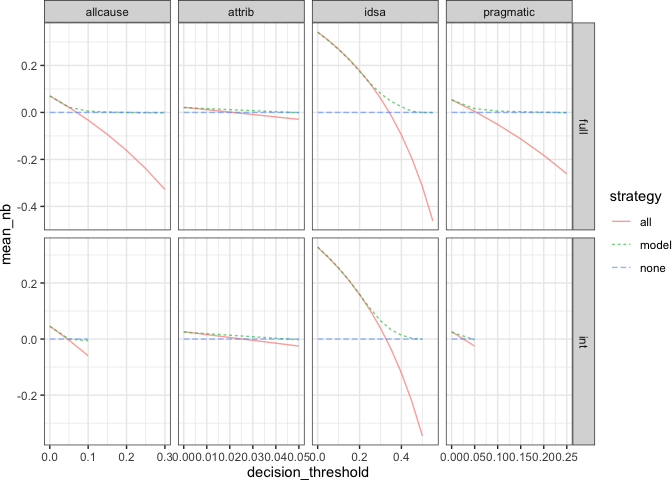
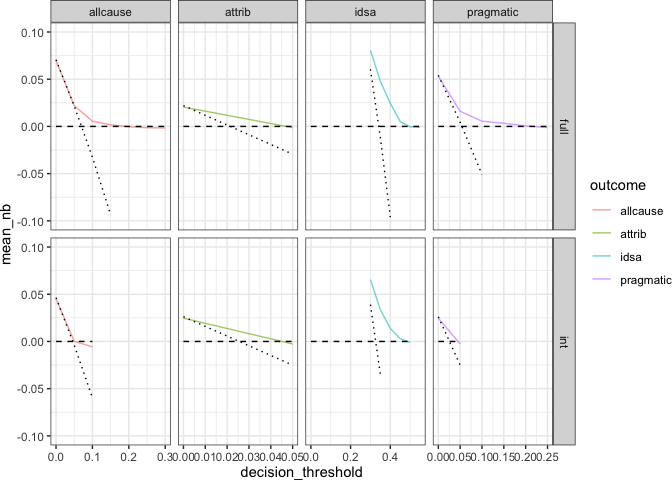
Report table of decision thresholds

diff --git a/workflow/notebooks/cost-benefit-analysis.md b/workflow/notebooks/cost-benefit-analysis.md
@@ -2,15 +2,32 @@ Cost-Benefit Analysis
 ================
 2023-05-30
 
+``` r
+library(here)
+library(schtools)
+library(tidyverse)
+thresh_dat <- read_csv(here('results','thresholds_results_aggregated.csv')) %>% 
+  mutate(predicted_pos_frac = (tp + fp) / (tp + fp + tn + fn))
+treat_all <- thresh_dat %>% 
+  filter(strategy == 'all') %>% 
+  select(strategy, decision_threshold, net_benefit, dataset, outcome) %>% 
+  unique() %>% 
+  pivot_wider(names_from = strategy, values_from = net_benefit, 
+              names_prefix = "nb_treat_")
+treat_none <- thresh_dat %>% filter(strategy == 'none') %>% 
+  select(strategy, decision_threshold, net_benefit, dataset, outcome) %>% 
+  unique() %>% 
+  pivot_wider(names_from = strategy, values_from = net_benefit, 
+              names_prefix = "nb_treat_")
+thresh_dat <- thresh_dat %>% 
+  filter(strategy == 'model') %>% 
+  left_join(treat_all, by = join_by(decision_threshold, dataset, outcome)) %>% 
+  left_join(treat_none, by = join_by(decision_threshold, dataset, outcome))
+```
+
 - use values from confusion matrix for one representative model on a
   test set. or get average precision? choose a particular sensitivity
   level and see the range in precision?
-  - Number needed to screen (NNS) - the number of alerted patients the
-    models must flag to identify 1 true positive.
-  - Number needed to treat (NNT) - the number of true positive patients
-    one must treat for 1 patient to benefit from the treatment.
-  - Number needed to benefit (NNB = NNS x NNT) - how many patients must
-    be screened for 1 patient to benefit.
 - assumptions
   - cost of a non-severe case
   - cost of a severe case
@@ -37,6 +54,78 @@ Cost-Benefit Analysis
 > framework that will alter the estimated number needed to benefit
 > across different modeling and implementation scenarios.
 
+## percentile of risk
+
+95th percentile of risk: risk threshold where action is taken in 5% of
+patients.
+
+``` r
+roc_risk_pct <- thresh_dat %>% 
+  mutate(Specificity = round(Specificity, 2)) %>%
+  group_by(Specificity, dataset, outcome) %>%
+  summarise(
+    mean_sensitivity = mean(Sensitivity),
+    mean_pred_pos_frac = mean(predicted_pos_frac)
+   ) %>% 
+  ungroup() %>%
+  group_by(dataset, outcome) %>%
+  mutate(diff_95th_pct = abs(mean_pred_pos_frac - 0.05)) %>%
+  slice_min(diff_95th_pct)
+prc_risk_pct <- thresh_dat %>% 
+  mutate(Recall = round(Recall, 2)) %>%
+  group_by(Recall, dataset, outcome) %>%
+  summarise(
+    mean_precision = mean(Precision),
+    mean_pred_pos_frac = mean(predicted_pos_frac)
+   ) %>% 
+  ungroup() %>%
+  group_by(dataset, outcome) %>% 
+  mutate(diff_95th_pct = abs(mean_pred_pos_frac - 0.05)) %>%
+  slice_min(diff_95th_pct)
+
+# confusion matrix values for 95th percentile of risk
+confmat_95th_roc <- thresh_dat %>% 
+  mutate(Specificity = round(Specificity, 2)) %>%
+  inner_join(roc_risk_pct, by = join_by(Specificity, dataset, outcome)) %>% 
+  mutate(diff_mean_sens = abs(mean_sensitivity - Sensitivity)) %>% 
+  group_by(dataset, outcome) %>% 
+  slice_min(diff_mean_sens) %>% 
+  select(-seed) %>% 
+  unique() %>% 
+  slice_max(net_benefit) %>% 
+  select(outcome, dataset, Precision, Recall, Specificity, tp,fp,tn,fn,
+         net_benefit, nns, decision_threshold)
+
+confmat_95th_prc <- thresh_dat %>% 
+  mutate(Recall = round(Recall, 2)) %>% 
+  inner_join(prc_risk_pct, by = join_by(Recall, dataset, outcome)) %>% 
+  mutate(diff_mean_prec = abs(mean_precision - Precision)) %>% 
+  group_by(dataset, outcome) %>% 
+  slice_min(diff_mean_prec) %>% 
+  select(-seed) %>% 
+  unique() %>% 
+  slice_max(net_benefit) %>% 
+  select(outcome, dataset, Precision, Recall, Specificity, tp,fp,tn,fn,
+         net_benefit, nns, decision_threshold)
+confmat_95th_prc
+```
+
+    ## # A tibble: 8 × 12
+    ## # Groups:   dataset, outcome [8]
+    ##   outcome   dataset Precision Recall Specificity    tp    fp    tn    fn
+    ##   <chr>     <chr>       <dbl>  <dbl>       <dbl> <dbl> <dbl> <dbl> <dbl>
+    ## 1 allcause  full        0.286   0.12       0.978     2     5   221    15
+    ## 2 attrib    full        0.2     0.2        0.983     1     4   226     4
+    ## 3 idsa      full        0.556   0.07       0.972     5     4   137    68
+    ## 4 pragmatic full        0.286   0.15       0.978     2     5   225    11
+    ## 5 allcause  int         0.125   0.11       0.963     1     7   182     8
+    ## 6 attrib    int         0.143   0.2        0.969     1     6   187     4
+    ## 7 idsa      int         0.4     0.06       0.955     4     6   127    61
+    ## 8 pragmatic int         0.143   0.2        0.969     1     6   187     4
+    ## # ℹ 3 more variables: net_benefit <dbl>, nns <dbl>, decision_threshold <dbl>
+
+## decision curve based on cost?
+
 ### [decision curve analysis](https://journals.sagepub.com/doi/10.1177/0272989X06295361)
 
 QALYs are prone to systemic biases. We can sidestep using them by doing
@@ -52,16 +141,11 @@ results.
 - assume all patients severe vs no patients severe.
 
 ``` r
-library(here)
-library(schtools)
-library(tidyverse)
-thresh_dat <- read_csv(here('results','thresholds_results_aggregated.csv'))
-
 max_thresholds <- thresh_dat %>% 
   filter(strategy == 'model') %>% 
   group_by(dataset, outcome, strategy, decision_threshold)  %>% 
   summarize(mean_nb = mean(net_benefit)) %>% 
-  filter(mean_nb < 0) %>% 
+  filter(mean_nb <= 0) %>% 
   slice_min(mean_nb) %>% 
   ungroup() %>% 
   mutate(max_thresh = decision_threshold) %>% 
@@ -70,11 +154,15 @@ max_thresholds <- thresh_dat %>%
 thresh_dat %>% 
   left_join(max_thresholds, by = join_by(dataset, outcome)) %>% 
   filter(decision_threshold <= max_thresh) %>% 
-  group_by(dataset, outcome, strategy, decision_threshold) %>% 
-  summarize(mean_nb = mean(net_benefit)) %>% 
-  ggplot(aes(decision_threshold, mean_nb, 
-             color = strategy, linetype = strategy)) +
-  geom_line(alpha = 0.6) +
+  group_by(dataset, outcome, decision_threshold) %>% 
+  summarize(mean_nb = mean(net_benefit),
+            nb_treat_all = mean(nb_treat_all),
+            nb_treat_none = mean(nb_treat_none)) %>% 
+  ggplot(aes(x = decision_threshold)) +
+  geom_line(aes(y = mean_nb, color = outcome), alpha = 0.6) +
+  geom_line(aes(y = nb_treat_all), linetype = 'dotted') +
+  geom_line(aes(y = nb_treat_none), linetype = 'dashed') +
+  scale_y_continuous(limits = c(-0.1,0.1)) +
   facet_grid(dataset ~ outcome, scales = 'free') +
   theme_sovacool()
 ```
